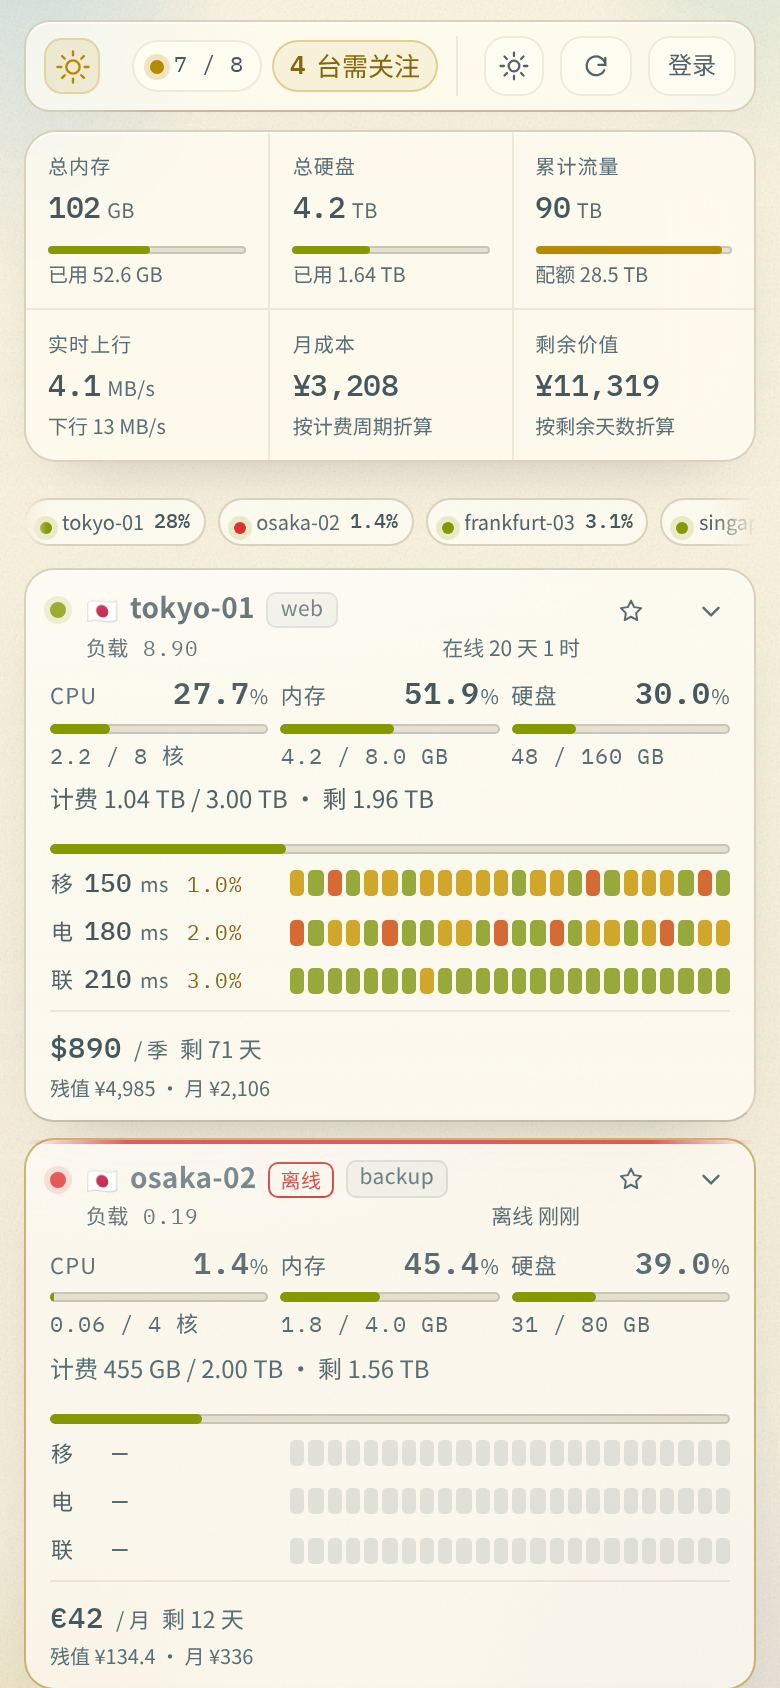
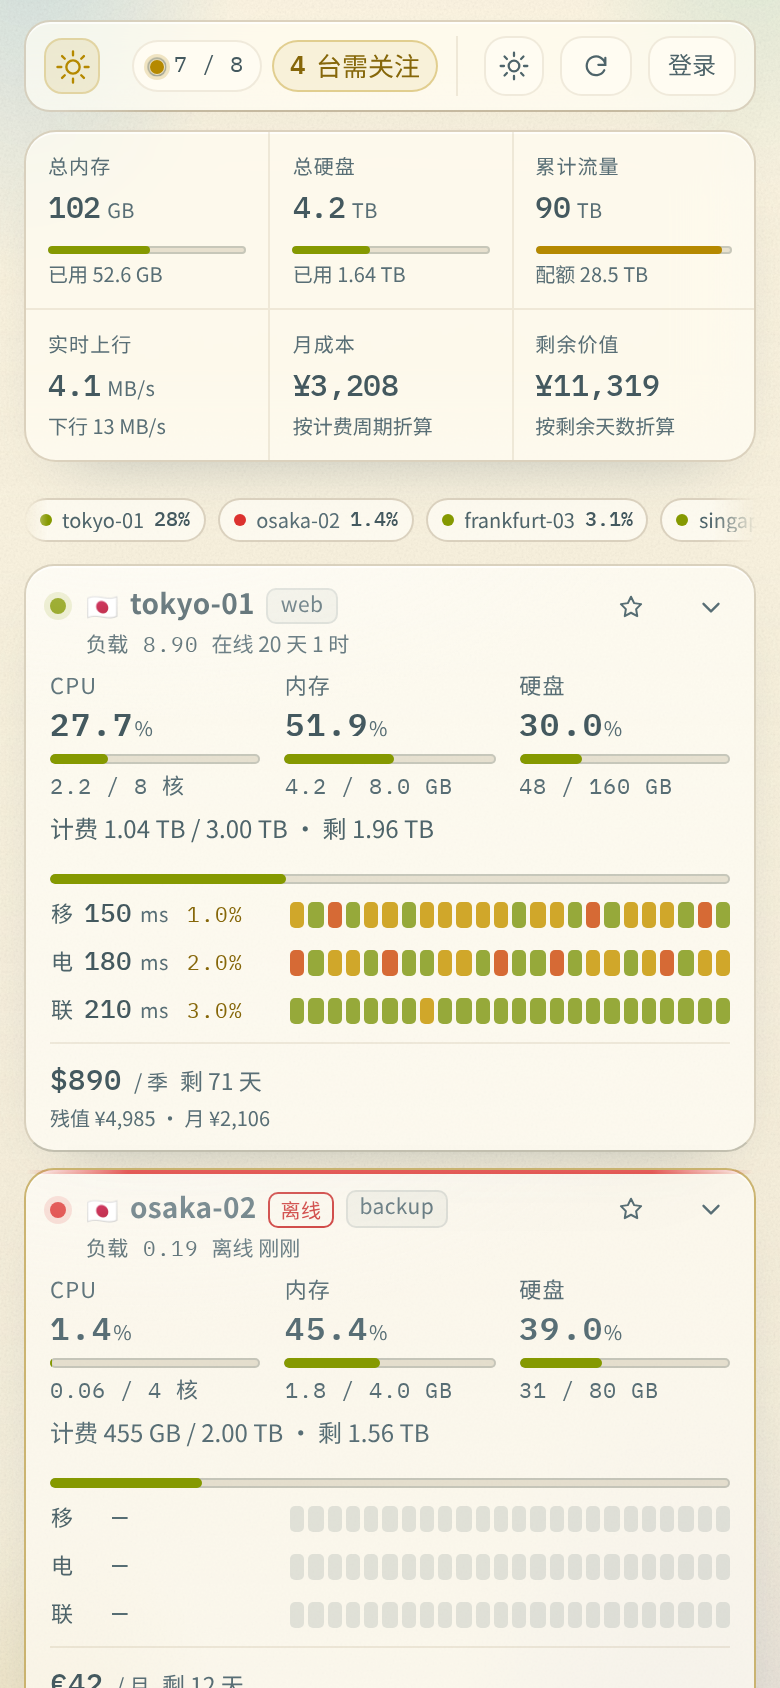
Refresh screenshots for 2.6.2, add a full-length phone page

Changed region(s): [[0.0308, 0.3081, 0.9846, 1.0], [0.9538, 0.9858, 0.9846, 1.0]]

diff --git a/README.zh-CN.md b/README.zh-CN.md
@@ -10,7 +10,7 @@
 | --- | --- |
 | <img src="docs/screenshots/desktop.png" alt="桌面" width="560"> | <img src="docs/screenshots/mobile.png" alt="手机" width="200"> |
 
-截图都是虚构的演示数据。笔记本尺寸见 [docs/screenshots/laptop.png](docs/screenshots/laptop.png)。
+截图都是虚构的演示数据。笔记本尺寸见 [docs/screenshots/laptop.png](docs/screenshots/laptop.png)，手机整页长图见 [docs/screenshots/mobile-full.png](docs/screenshots/mobile-full.png)。
 
 ## 这是什么
 

diff --git a/README.md b/README.md
@@ -10,7 +10,7 @@
 | --- | --- |
 | <img src="docs/screenshots/desktop.png" alt="Desktop" width="560"> | <img src="docs/screenshots/mobile.png" alt="Phone" width="200"> |
 
-All screenshots use synthetic demo data. Laptop size: [docs/screenshots/laptop.png](docs/screenshots/laptop.png).
+All screenshots use synthetic demo data. Laptop size: [docs/screenshots/laptop.png](docs/screenshots/laptop.png); full-length phone page: [docs/screenshots/mobile-full.png](docs/screenshots/mobile-full.png).
 
 ## What it is
 
